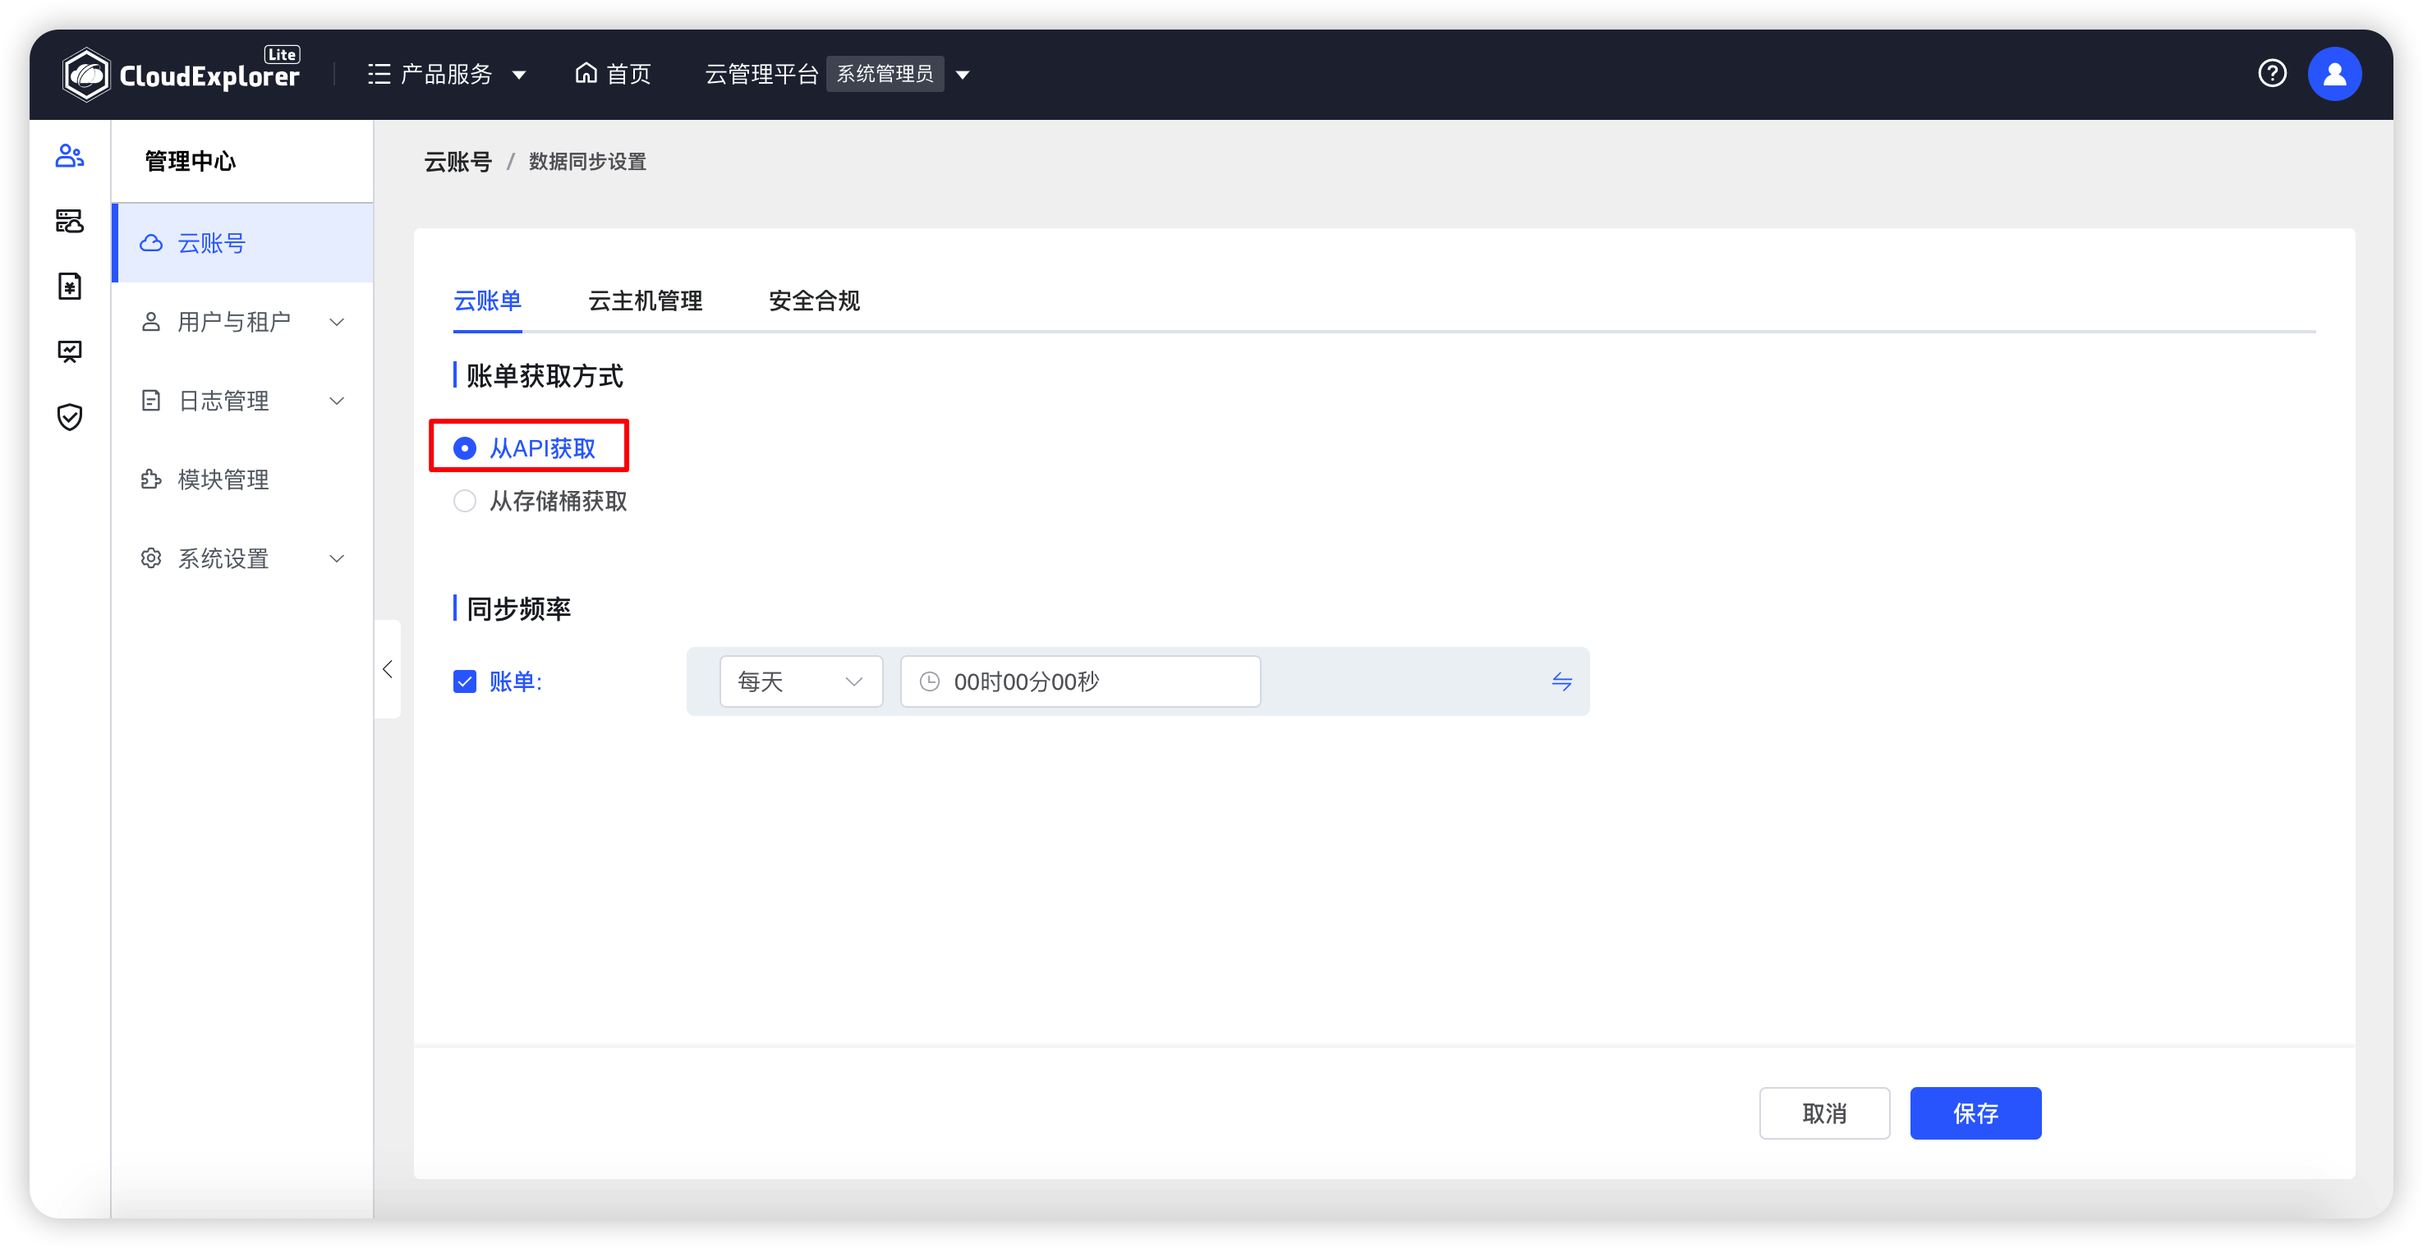
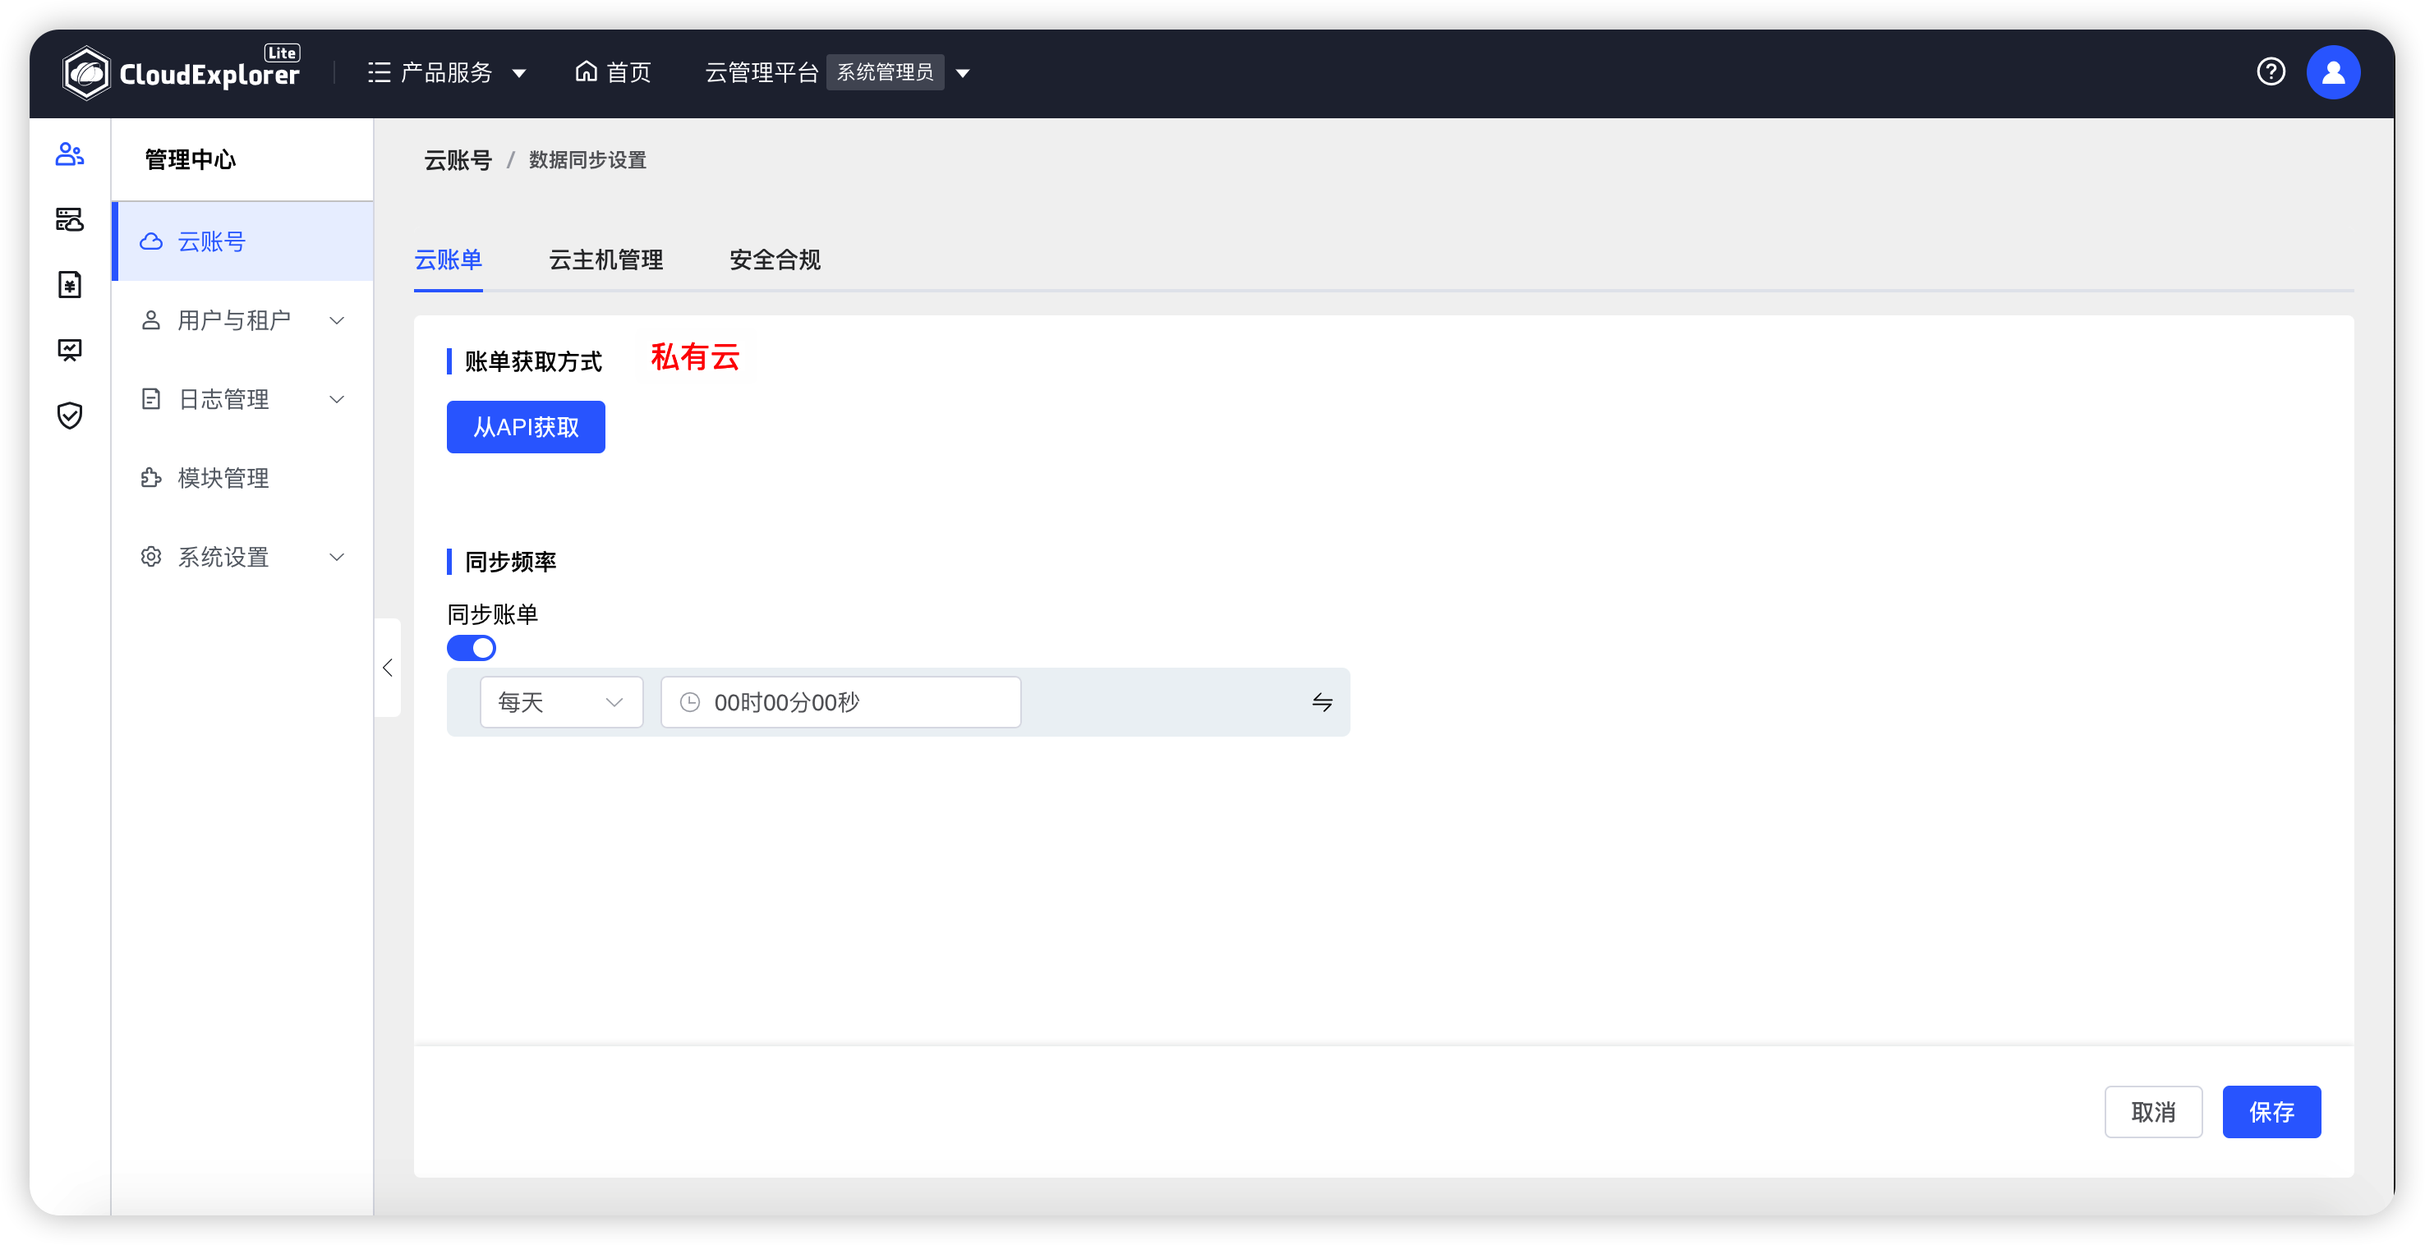
更新管理中心、云主机、运营分析、通用功能等模块

diff --git a/docs/user_manual/management/sysn_setting.md b/docs/user_manual/management/sysn_setting.md
@@ -9,11 +9,12 @@
 
     云账号数据同步设置的操作入口有两种方式：<br />
     - 方式一：云账号列表中【操作】-【数据同步设置】。<br />
-    - 方式二：云账号详情中【数据同步设置】-【编辑】。<br />
+    - 方式二：云账号详情中【操作】-【数据同步设置】。<br />
 
 ![方式一云账号数据同步设置](../../img/management/sysn_setting/方式一云账号数据同步设置.png){ width="1235px" }
 
 ![方式二云账号数据同步设置](../../img/management/sysn_setting/方式二云账号数据同步设置.png){ width="1235px" }
+
 
 ### 1.1 云主机同步设置
 
@@ -36,10 +37,9 @@
 
 !!! Abstract ""
 
-    对于公有云云账号，除同步云资源数据外，还涉及到相关公有云账单费用同步。云账单模块所使用的账单数据均需要在云账号中进行同步，所以公有云云账号还需进行同步云账单操作。
-
-    用户设置云账单获取方式有 通过 API 和通过存储桶两种。当云账号的资源数量过多时（超过200）建议使用存储桶的方式，当云账号下的资源数量不多（少于200）且没有开启存储桶时，建议使用API的方式。
-
+    公有云云账单获取方式有 通过 API 和通过存储桶两种。<br />
+    当云账号的资源数量过多时（超过200）建议使用存储桶的方式，当云账号下的资源数量不多（少于200）且没有开启存储桶时，建议使用API的方式。<br />
+    私有云云账单获取方式仅有 通过 API 。<br />
     建议将云账号同步时间设置在业务低峰时段。
 
 ![云账单同步设置-API](../../img/management/sysn_setting/云账单同步设置-API.png){ width="1235px" }
@@ -52,17 +52,16 @@
 
     云账号纳管以后，会根据设置好的云账号数据同步设置对资源进行定时同步，但是如果用户未通过云管平台，而是直接在所纳管云账号的控制台上操作云资源数据，就会造成云管平台上的数据滞后于各云平台上的数据。若用户急需在云管平台上看到最新数据时，用户可以在云账号列表中进行手动同步数据操作。
 
-### 2.1 同步资源
 
 !!! Abstract ""
 
-    手动同步云账号资源信息有两个方式：<br />
-    - 方式一：在云账号列表中，勾选所需要同步的云账号，点击页面上方“同步”按钮，可对选中的云账号批量进行资源同步。<br />
-    - 方式二：在云账号列表中，选择需要同步的云账号，点击列表右侧“操作”列中的“同步”图标，页面会弹出选择框，用户可以选择本地同步资源数据的区域范围和资源类型，点击“同步”即可开始同步任务。
+    手动同步云账号资源/账单信息有两个方式：<br />
+    - 方式一：在云账号列表中，勾选所需要同步的云账号，点击页面上方“全量同步”按钮，可对选中的云账号批量进行资源/账单同步。<br />
+    - 方式二：在云账号列表中，选择需要同步的云账号，点击列表右侧的“同步”，页面会弹出选择框，用户可以选择本地同步资源数据的区域范围、资源类型、账单周期，点击“同步”即可开始同步任务。
 
 ![批量同步云账号](../../img/management/sysn_setting/批量同步云账号.png){ width="1235px" }
-
 ![同步单个云账号](../../img/management/sysn_setting/同步单个云账号.png){ width="1235px" }
+![同步云账单详情](../../img/management/sysn_setting/同步云账单详情.png){ width="1235px" }
 
 !!! Abstract ""
 
@@ -78,15 +77,5 @@
 
 !!! Abstract ""
 
-    资源同步完成后可以到【云主机管理】模块看同步到的资源数据。
-
-### 2.2 同步云账单
-
-!!! Abstract ""
-
-    对于公有云云账号，用户可点击云账号列表右侧“操作”列中的“同步账单”选项，页面会弹出选择框，用户可以选择需要同步的账单周期（最多可按月同步过去一年的账单）。<br />
+    资源同步完成后可以到【云主机管理】模块看同步到的资源数据。  <br />
     云账单同步完成后需要到【云账单】模块查看相关数据。
-
-![同步账单](../../img/management/sysn_setting/同步账单.png){ width="1235px" }
-
-![同步账单详情](../../img/management/sysn_setting/同步账单详情.png){ width="1235px" }

diff --git a/docs/user_manual/operation-analytics/resource_optimization.md b/docs/user_manual/operation-analytics/resource_optimization.md
@@ -1,0 +1,30 @@
+
+## 1 优化策略
+
+!!! Abstract ""
+    云管平台内置了 4 种优化策略，分别为：建议降配策略、建议升配策略、建议变更付费方式策略、建议回收策略。<br />
+    优化策略支持灵活设置忽略资源，方便用户设置某些特殊不参与优化的资源，支持不同策略设置不同的忽略资源；且支持导出优化资源列表功能。<br />
+    通过优化策略，云管平台可根据云主机资源使用情况分析出资源的优化方案，点击每个优化策略，页面下方列表都会展示所选优化策略相关云主机资源，方便管理员找到资源浪费的云主机进行资源回收，找到资源不足的云主机进行升配。
+
+![优化策略列表](../../img/operation-analytics/resource_optimization/优化策略列表.png){ width="1235px" } 
+![优化策略规则设置](../../img/operation-analytics/resource_optimization/优化策略规则设置.png){ width="1235px" } 
+![优化策略范围设置](../../img/operation-analytics/resource_optimization/优化策略范围设置.png){ width="1235px" } 
+
+
+## 2 云主机优化
+
+!!! Abstract ""
+
+    点击每个优化策略右上“小齿轮”图标，进入优化策略页面，即可修改原有策略设置，保存后再次进入会按照最新的策略条件进行资源筛选。
+
+![修改优化策略入口](../../img/operation-analytics/resource_optimization/修改优化策略入口.png){ width="1235px" }  
+![修改优化策略页面](../../img/operation-analytics/resource_optimization/修改优化策略页面.png){ width="1235px" } 
+![查看忽略资源](../../img/operation-analytics/resource_optimization/修改优化策略页面.png){ width="1235px" } 
+
+!!! Abstract ""
+
+    __优化策略说明：__<br />
+    - 建议降配云主机：过去 N 天 CPU 平均使用率/CPU最大使用率 小于等于 N% and/or  内存平均使用率/内存最大使用率 小于等于 N%。<br />
+    - 建议升配云主机：过去 N 天 CPU 平均使用率/CPU最大使用率 大于等于 N% and/or  内存平均使用率/内存最大使用率 大于等于 N%。<br />
+    - 建议变更付费方式云主机：包年包月云主机持续关机大于 N 天建议转按需按量；按需按量资源持续开机大于 N 天建议转包年包月。<br />
+    - 建议回收云主机：持续关机大于 N 天的闲置资源建议回收。

diff --git a/docs/user_manual/general.md b/docs/user_manual/general.md
@@ -11,12 +11,25 @@
 
 !!! Abstract ""
 
-    点击页面右上角用户头像，“个人信息”选项，可查看当前登录账号的个人信息，其中“用户名”、“Email”、“手机号”信息可直接修改，修改后点击“保存”即可生效。
+    点击页面右上角用户头像，“个人信息”选项，可查看当前登录账号的个人信息，其中“用户名”、“Email”、“手机号”信息可直接修改，修改后点击“保存”即可生效。<br />
+    
 
 ![个人信息1](../img/user_manual/个人信息1.png){ width="1235px" }
 ![个人信息2](../img/user_manual/个人信息2.png){ width="1235px" }
 
-## 3 搜索
+
+
+## 3 API文档
+
+!!! Abstract ""
+     
+  点击页面右上角用户头像，可以获取云管平台API文档。
+
+![API文档](../img/user_manual/API文档.png){ width="1235px" }
+
+
+
+## 4 搜索
 
 !!! Abstract ""
 
@@ -28,7 +41,7 @@
 
 ![文本搜索](../img/user_manual/文本搜索.png){ width="1235px" }
 
-## 4 翻页
+## 5 翻页
 
 !!! Abstract ""
 
@@ -36,21 +49,21 @@
 
 ![翻页](../img/user_manual/翻页.png){ width="1235px" }
 
-## 5 选项列
+## 6 选项列
 
 !!! Abstract ""
     每个列表页面右上角的“选项列”按钮，点击可自定义列表显示字段。
 
 ![选项列](../img/user_manual/选项列.png){ width="1235px" }
 
-## 6 批量操作
+## 7 批量操作
 
 !!! Abstract ""
     系统中的大部分列表均提供了多选及全选功能，当选中多个数据后点击页面上方操作按钮，可对选中数据进行批量操作。
 
 ![批量操作](../img/user_manual/批量操作.png){ width="1235px" }
 
-## 7 菜单切换
+## 8 菜单切换
 
 !!! Abstract ""
     鼠标悬浮至页面左上角“服务列表”图标，页面将展开出现服务菜单列表，选择需要跳转的菜单项，点击后可跳转到对应菜单页面。

diff --git a/docs/user_manual/finance-management/calculate_policy.md b/docs/user_manual/finance-management/calculate_policy.md
@@ -13,7 +13,7 @@
     __情况说明：__<br />
     如有统计私有云费用需求，管理员可以设置私有云计费策略。 <br />
     当前支持对云主机、磁盘设置计费策略。 <br />
-    已关联的云账号再次关联新的计费策略，之前的关联关系会自动解绑，以最终的关联为准。
+
 
 
 ### 设置云主机计费策略
@@ -102,7 +102,10 @@
 
 !!! Abstract ""
      选中计费策略，点击“...”，选择关联云账号。<br />
-     1 个计费策略可以关联 N 个云账号。
+     1 个计费策略可以关联 N 个云账号。<br />
+     云账号关联计费策略后，新生成的账单将按照最新计费策略生成账单，历史账单不受影响。
+     已关联的云账号再次关联新的计费策略会提示已经被关联，之前的关联关系会自动解绑，以最终的关联为准。
+![关联提示](../../img/finance-management/calculate_policy/关联提示.png){ width="1235px" }
 ![计费策略关联云账号](../../img/finance-management/calculate_policy/计费策略关联云账号.png){ width="1235px" }
 
 
@@ -118,5 +121,6 @@
 
 !!! Abstract ""
      选中计费策略，点击“...”，选择删除。<br />
-     二次确认，点击“删除”。
+     二次确认，点击“删除”。<br />
+     删除计费策略后云账号会自动解绑，云账号下的资源不再生成账单。
 ![计费策略删除](../../img/finance-management/calculate_policy/计费策略删除.png){ width="1235px" }

diff --git a/docs/user_manual/management/log.md b/docs/user_manual/management/log.md
@@ -4,14 +4,7 @@
 
     操作日志用于记录所有用户登录云管后的所有操作日志。分为登录日志、云主机操作日志、云磁盘操作日志和平台管理日志。   
 
-![操作日志列表](../../img/management/log/操作日志列表.png){ width="1235px" }
-  
-!!! Abstract ""
- 
-    点击“清空策略”按钮可自定义日志保存月数，如未自行定义，系统默认保存 3 个月。
-
-![清空策略](../../img/management/log/清空策略.png){ width="1235px" }
-
+    
 ### 1.1 登录日志
 
 !!! Abstract ""
@@ -59,9 +52,3 @@
     系统日志页面显示了所有模块的日志信息，列表展示信息包括：模块、级别、创建时间、日志详情。
 
 ![系统日志](../../img/management/log/系统日志.png){ width="1235px" }
-
-!!! Abstract ""
-
-    点击“清空策略”按钮可自定义日志保存月数，如未自行定义，系统默认保存 3 个月。
-
-![系统日志清空策略](../../img/management/log/系统日志清空策略.png){ width="1235px" }

diff --git a/docs/quick_start.md b/docs/quick_start.md
@@ -32,7 +32,7 @@
 !!! Abstract ""
     登录 CloudExplorer Lite 系统后默认进入主页，分为顶部导航、左侧导航栏和工作区域三部分。     
     **顶部导航栏：** 顶部显示系统logo、用户登录身份（组织和角色）、帮助文档、个人信息。  
-    **左侧导航栏：** 左侧固定模块菜单，包含管理中心、云主机服务、云账单、运营分析、安全合规五个服务模块，点击图标便可切换到相应的模块中。  
+    **产品服务：** 固定模块菜单，包含管理中心、云主机服务、云账单、运营分析、安全合规五个服务模块，点击图标便可切换到相应的模块中。  
     **工作区域：** 右侧为工作区域，显示主页的内容包含个人信息、快捷服务、我的资源、不合规规则/资源统计、费用概览、费用趋势、云主机优化建议、云主机趋势、云主机状态分布。
  
 ![首页](./img/quick_start/主页.png){ width="1235px" }

diff --git a/docs/user_manual/management/system_management.md b/docs/user_manual/management/system_management.md
@@ -7,16 +7,15 @@
 
 !!! Abstract ""
 
-    参数设置中当前可设置回收站策略。
+    参数设置中当前可设置回收站策略、日志数据清空策略、监控数据清空策略。
 
 !!! Abstract ""
 
-    为避免用户误删除资源，云管平台提供了回收站功能作为缓冲区。
-
+    为避免用户误删除资源，云管平台提供了回收站功能作为缓冲区。<br />
     回收站状态开启时，删除云主机和云磁盘，会将所删除的资源放入回收中，不会在各云平台上删除，在回收站中执行“彻底删除”操作才会将所删除的资源在云平台上删除。<br />
     回收站状态关闭时，删除云主机和云磁盘，会将所删除的资源直接在云平台上彻底删除。
 
-![回收站策略](../../img/management/回收站策略.png){ width="1235px" }
+![参数设置](../../img/management/参数设置.png){ width="1235px" }
 
 ## 2  关于
 

diff --git a/docs/user_manual/finance-management/bill_detail.md b/docs/user_manual/finance-management/bill_detail.md
@@ -1,7 +1,7 @@
 
 !!! Abstract ""
 
-    账单明细中展示所有公有云云账号的账单明细，包括账期、资源 ID、资源名称、云账号、产品名称、产品明细、付款账号等。<br / >
+    账单明细中展示所有公有云云账号的账单明细，包括账期、资源名称、云账号、产品名称、产品明细、计费模式、企业项目、总费用、现金支付等。<br / >
     列表中默认显示当月的账单明细，可以选择不同账期查看明细。
 
 ![账单明细列表](../../img/finance-management/bill_detail/账单明细列表.png){ width="1235px" }

diff --git a/docs/user_manual/cloud-server/server.md b/docs/user_manual/cloud-server/server.md
@@ -173,7 +173,8 @@
     
 !!! Abstract ""
 
-    VMware 云主机配置变更可以自行设置要变更的配置大小。
+    VMware 云主机配置变更可以自行设置要变更的配置大小。<br />
+    如有设置计费策略，配置变更时会显示预估费用
 
 ![VMware配置变更](../../img/cloud-server/server/VMware配置变更.png){ width="1235px" }
    
